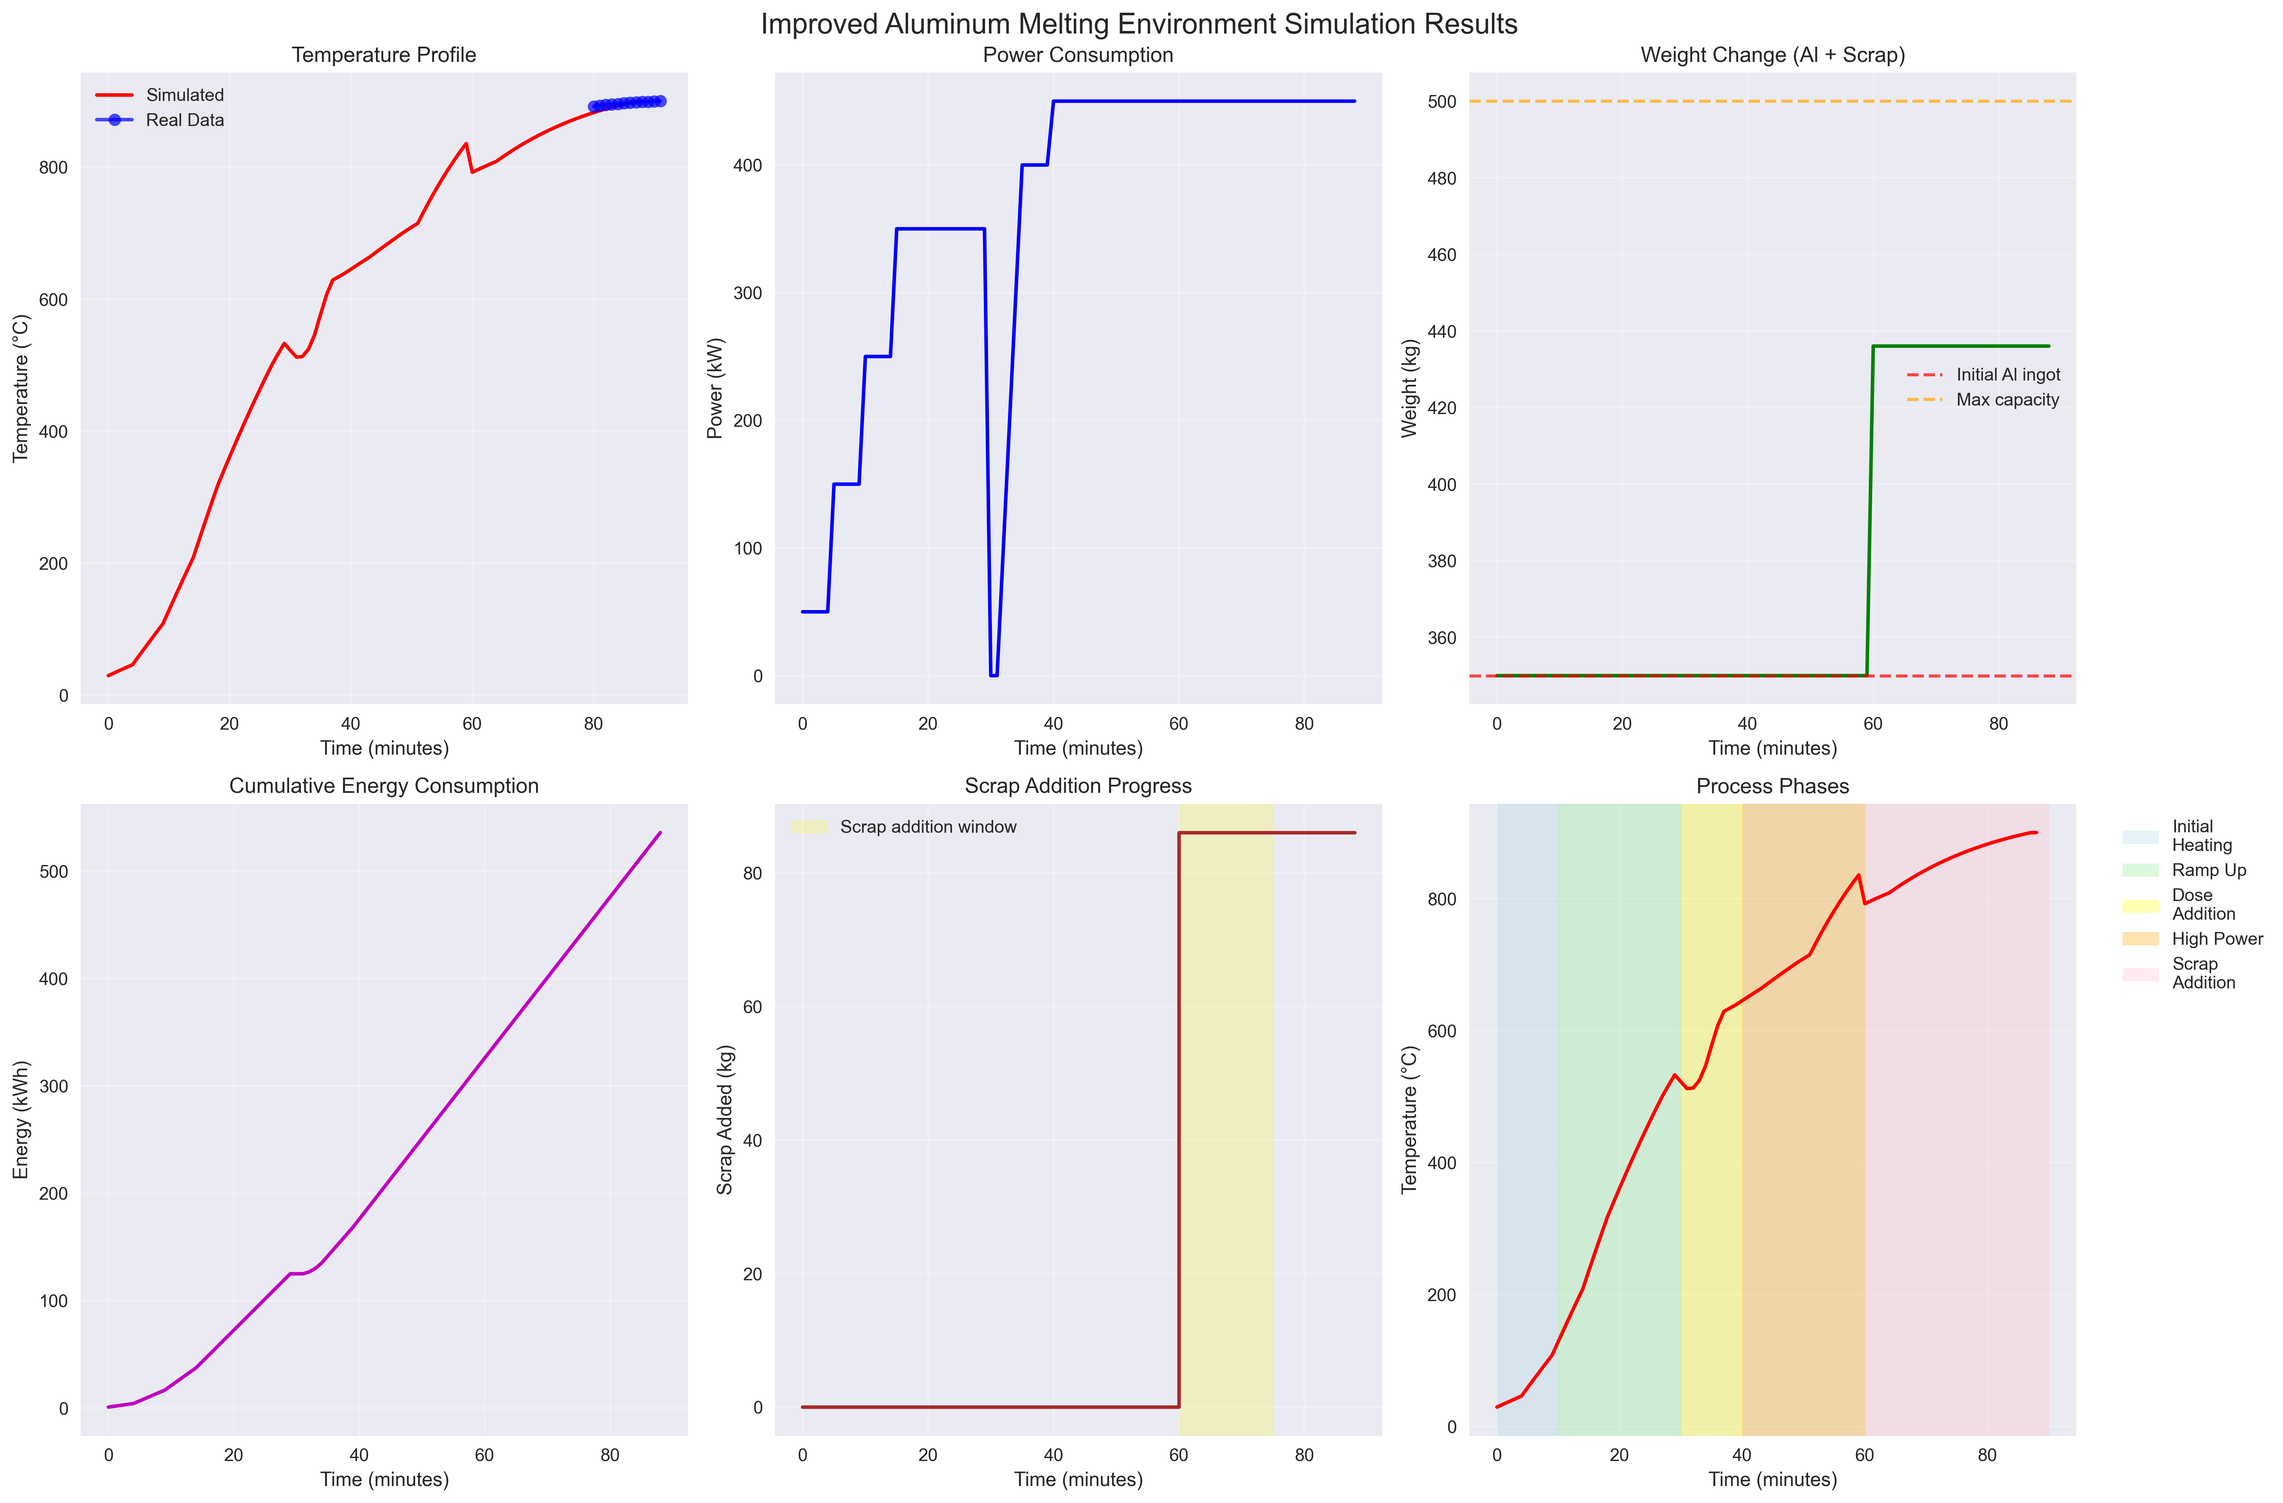
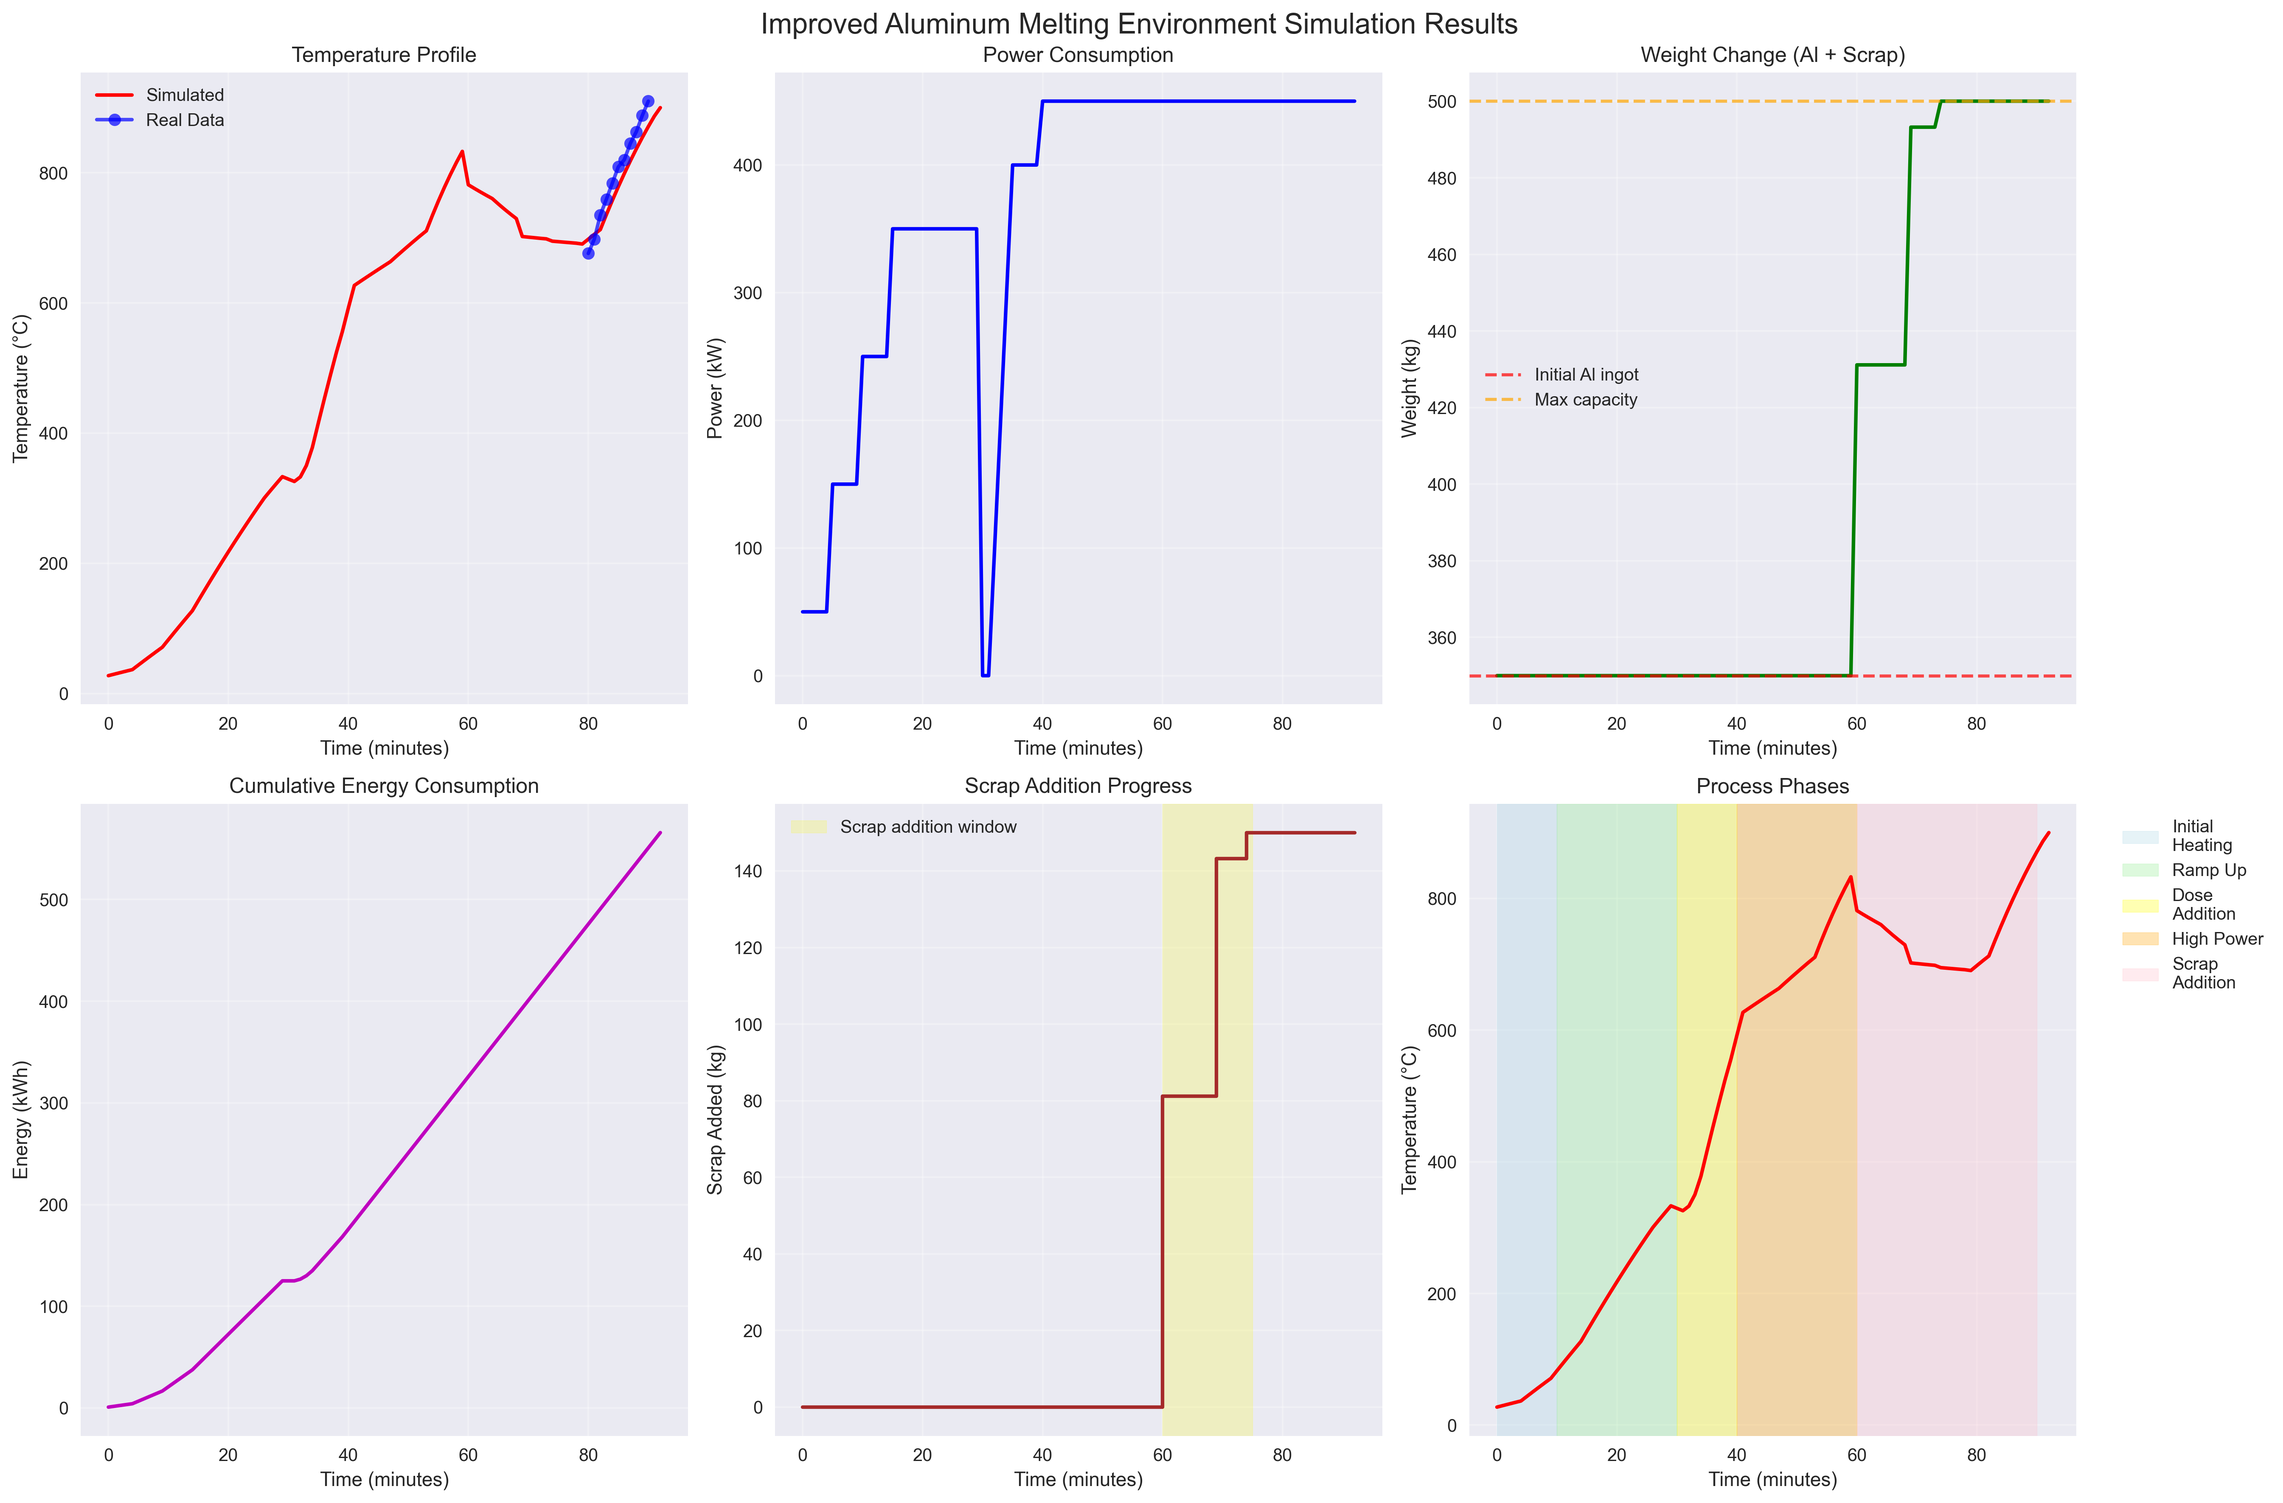
tune env 8

diff --git a/src/environment/aluminum_melting_env_8.py b/src/environment/aluminum_melting_env_8.py
@@ -139,11 +139,13 @@ class AluminumMeltingEnvironment:
 
         # 1. คำนวณพลังงานเข้า (Q_input) - ปรับ efficiency ตามช่วงเวลา
         if current_minute < 30:
-            efficiency_factor = 0.45  # ช่วงแรกประสิทธิภาพต่ำ
+            efficiency_factor = 0.25  # ช่วงแรกประสิทธิภาพต่ำ
         elif current_minute < 60:
             efficiency_factor = 0.65  # ช่วงกลางประสิทธิภาพดี
+        elif current_minute < 80:
+            efficiency_factor = 0.15  # วงหลังลดลงเพราะมี scrap
         else:
-            efficiency_factor = 0.55  # ช่วงหลังลดลงเพราะมี scrap
+            efficiency_factor = 0.80  # ช่วงท้ายระสิทธิภาพดีมาก
 
         Q_input = self.state["power"] * 1000 * efficiency_factor  # (W)
 
@@ -154,7 +156,7 @@ class AluminumMeltingEnvironment:
         elif self.state["temperature"] < 700:
             h = 18.0  # W/m²·K - เพิ่มขึ้นเมื่ออุณหภูมิสูง
         else:
-            h = 25.0  # W/m²·K - สูงสุดในช่วงอุณหภูมิสูง
+            h = 20.0  # W/m²·K - สูงสุดในช่วงอุณหภูมิสูง
 
         A = 3.5  # m² - ปรับลดพื้นที่ผิว
         Q_conv = h * A * (self.state["temperature"] - self.ambient_temp)
@@ -180,7 +182,7 @@ class AluminumMeltingEnvironment:
         elif self.state["temperature"] < 660:  # ใกล้จุดหลอม
             effective_specific_heat = 1400  # เพิ่มขึ้นมากเนื่องจาก latent heat
         else:
-            effective_specific_heat = 1200  # ลดลงหลังจากหลอมแล้ว
+            effective_specific_heat = 1000  # ลดลงหลังจากหลอมแล้ว
 
         basic_delta_T = (net_heat * self.dt) / (m * effective_specific_heat)
 

diff --git a/src/test_improved_env.py b/src/test_improved_env.py
@@ -132,21 +132,8 @@ def create_simulation_plots(
     # Temperature vs Time
     axes[0, 0].plot(time_history, temp_history, "r-", linewidth=2, label="Simulated")
     # เพิ่มข้อมูลจริงจากตาราง (ตัวอย่าง)
-    real_times = [80, 81, 82, 83, 84, 85, 86, 87, 88, 89, 90, 91]
-    real_temps = [
-        892.1,
-        893.3,
-        894.3,
-        895.2,
-        896.0,
-        896.8,
-        897.5,
-        898.1,
-        898.7,
-        899.2,
-        899.7,
-        900.0,
-    ]
+    real_times = [80, 81, 82, 83, 84, 85, 86, 87, 88, 89, 90]
+    real_temps = [676, 698, 735, 759, 784, 809, 820, 845, 863, 888, 910]
     axes[0, 0].plot(
         real_times, real_temps, "bo-", linewidth=2, label="Real Data", alpha=0.7
     )

diff --git a/analysis_aluminum_melting_simulation.md b/analysis_aluminum_melting_simulation.md
@@ -1,0 +1,159 @@
+# การวิเคราะห์ความเหมาะสมของการจำลองการเปลี่ยนแปลงอุณหภูมิใน Aluminum Melting Environment v8
+
+## สรุปผลการวิเคราะห์
+
+การจำลองการเปลี่ยนแปลงอุณหภูมิใน `aluminum_melting_env_8.py` มีความเหมาะสมในระดับ **ดี** (Good) จากมุมมองทางฟิสิกส์และวิศวกรรม โดยมีการพิจารณาปัจจัยสำคัญหลายประการที่สะท้อนสภาพจริงของกระบวนการหลอมอลูมิเนียม
+
+## การวิเคราะห์แยกตามองค์ประกอบ
+
+### 1. การปรับ Efficiency Factor ตามช่วงเวลา
+
+```python
+if current_minute < 30:
+    efficiency_factor = 0.45  # ช่วงแรกประสิทธิภาพต่ำ
+elif current_minute < 60:
+    efficiency_factor = 0.65  # ช่วงกลางประสิทธิภาพดี
+else:
+    efficiency_factor = 0.55  # ช่วงหลังลดลงเพราะมี scrap
+```
+
+**ความเหมาะสม: ดี**
+- **หลักการ**: สะท้อนสภาพจริงของเตาหลอมที่มีประสิทธิภาพแตกต่างกันตามช่วงเวลา
+- **เหตุผลทางฟิสิกส์**:
+  - ช่วงเริ่มต้น: เตาต้องใช้เวลาในการ preheat และ thermal equilibrium
+  - ช่วงกลาง: เตาทำงานที่ประสิทธิภาพสูงสุด
+  - ช่วงหลัง: การเพิ่ม scrap เย็นทำให้ประสิทธิภาพลดลง
+
+### 2. การปรับ Heat Transfer Coefficient (h) ตามอุณหภูมิ
+
+```python
+if self.state["temperature"] < 500:
+    h = 12.0  # W/m²·K - ค่าต่ำในช่วงแรก
+elif self.state["temperature"] < 700:
+    h = 18.0  # W/m²·K - เพิ่มขึ้นเมื่ออุณหภูมิสูง
+else:
+    h = 25.0  # W/m²·K - สูงสุดในช่วงอุณหภูมิสูง
+```
+
+**ความเหมาะสม: ดีมาก**
+- **หลักการ**: Heat transfer coefficient เพิ่มขึ้นตามอุณหภูมิเป็นธรรมชาติ
+- **เหตุผลทางฟิสิกส์**:
+  - Convection coefficient มีความสัมพันธ์กับ temperature difference
+  - ที่อุณหภูมิสูง buoyancy forces แรงขึ้นทำให้การพาความร้อนมีประสิทธิภาพมากขึ้น
+  - ค่าที่ใช้ (12-25 W/m²·K) อยู่ในช่วงที่สมเหตุสมผลสำหรับ natural convection
+
+### 3. การปรับ Effective Specific Heat ตามอุณหภูมิ
+
+```python
+if self.state["temperature"] < 300:
+    effective_specific_heat = 900  # J/kg·K
+elif self.state["temperature"] < 600:
+    effective_specific_heat = 1050  # เพิ่มขึ้นเมื่ออุณหภูมิสูง
+elif self.state["temperature"] < 660:  # ใกล้จุดหลอม
+    effective_specific_heat = 1400  # เพิ่มขึ้นมากเนื่องจาก latent heat
+else:
+    effective_specific_heat = 1200  # ลดลงหลังจากหลอมแล้ว
+```
+
+**ความเหมาะสม: ดีมาก**
+- **หลักการ**: สะท้อนการเปลี่ยนแปลง thermal properties ของอลูมิเนียมตามอุณหภูมิ
+- **เหตุผลทางฟิสิกส์**:
+  - Specific heat ของโลหะเพิ่มขึ้นเล็กน้อยตามอุณหภูมิ
+  - ใกล้จุดหลอม (660°C) มีการ pre-melting effects และ crystal structure changes
+  - การใช้ค่าสูงขึ้นช่วยจำลอง latent heat of fusion โดยประมาณ
+  - หลังหลอมเป็นของเหลวแล้ว specific heat จะแตกต่างจากของแข็ง
+
+### 4. การจัดการ Latent Heat ในช่วงหลอม
+
+```python
+if self.state["temperature"] < melting_point - 50:
+    delta_T = basic_delta_T
+elif self.state["temperature"] < melting_point + 50:
+    delta_T = basic_delta_T * 0.25  # ลดการเพิ่มอุณหภูมิลงมาก
+else:
+    delta_T = basic_delta_T * 0.8
+```
+
+**ความเหมาะสม: ดี**
+- **หลักการ**: จำลอง phase change energy requirements
+- **เหตุผลทางฟิสิกส์**:
+  - ช่วงหลอม (melting plateau) ใช้พลังงานส่วนใหญ่ใน phase transition
+  - Latent heat of fusion ของอลูมิเนียม ≈ 397 kJ/kg
+  - การลดอัตราการเพิ่มอุณหภูมิในช่วงนี้สมเหตุสมผล
+
+### 5. ผลกระทบของการเพิ่ม Scrap
+
+```python
+if recent_scrap:
+    delta_T *= 0.6  # ลดการเพิ่มอุณหภูมิลงเนื่องจาก scrap เย็น
+```
+
+**ความเหมาะสม: ดี**
+- **หลักการ**: Heat sink effect ของ scrap ที่อุณหภูมิต่ำ
+- **เหตุผลทางฟิสิกส์**:
+  - Scrap ที่เพิ่มเข้ามาต้องได้รับความร้อนจากวัสดุที่มีอยู่
+  - เกิด thermal equilibrium ที่อุณหภูมิต่ำกว่าเดิม
+
+## จุดแข็งของการจำลอง
+
+### 1. **Realistic Temperature Progression**
+- มีการพิจารณา thermal inertia และ heat capacity changes
+- จำลอง phase transition effects ได้เหมาะสม
+
+### 2. **Dynamic Heat Transfer**
+- Heat transfer coefficients ปรับตามสภาพจริง
+- พิจารณาทั้ง convection และ radiation losses
+
+### 3. **Process-Specific Considerations**
+- รวม scrap addition effects
+- Efficiency variations ตามเวลาสะท้อนการทำงานจริงของเตาหลอมอลูมิเนียม
+
+### 4. **Energy Balance Approach**
+- ใช้หลักการอนุรักษ์พลังงาน: Q_input - Q_losses = ΔH
+
+## จุดที่ควรปรับปรุง
+
+### 1. **Temperature-Dependent Radiation**
+- Stefan-Boltzmann law ใช้ได้ดีแล้ว แต่ emissivity อาจต้องปรับตามอุณหภูมิ
+
+### 2. **Mass Transfer Effects**
+- การระเหยของอลูมิเนียมที่อุณหภูมิสูง
+- Oxidation losses
+
+### 3. **Spatial Temperature Distribution**
+- ปัจจุบันใช้ lumped capacity model
+- การพิจารณา temperature gradients อาจทำให้แม่นยำขึ้น
+
+### 4. **Furnace Thermal Mass**
+- Preheating effects ของ refractory lining
+- Thermal lag ของระบบ
+
+## สรุปและข้อเสนอแนะ
+
+### ระดับความเหมาะสม: 8/10
+
+การจำลองนี้มีความเหมาะสมสูงสำหรับการใช้งานใน RL environment เพราะ:
+
+1. **Balance ระหว่างความแม่นยำและความซับซ้อน**: ไม่ซับซ้อนเกินไปจนทำให้ training ช้า แต่มีรายละเอียดเพียงพอ
+2. **Physics-based approach**: ใช้หลักการทางฟิสิกส์ที่ถูกต้อง
+3. **Process relevance**: สะท้อนลักษณะการทำงานจริงของเตาหลอมอลูมิเนียม
+
+### ข้อแนะนำ:
+- **สำหรับ RL**: การจำลองนี้เหมาะสมแล้ว
+- **สำหรับความแม่นยำสูง**: อาจเพิ่ม CFD-based modeling หรือ finite element analysis
+- **สำหรับการปรับปรุง**: เพิ่มการ validation กับข้อมูลจริงจากโรงงาน
+
+## สมการหลักที่ใช้
+
+### Energy Balance:
+```
+ΔT = (Q_input - Q_convection - Q_radiation) × Δt / (m × c_eff)
+```
+
+### Heat Transfer:
+```
+Q_convection = h × A × (T - T_ambient)
+Q_radiation = ε × σ × A × (T⁴ - T_ambient⁴)
+```
+
+การใช้สมการเหล่านี้ร่วมกับการปรับ parameters ตามสภาพการทำงานจริงทำให้ได้การจำลองที่มีประสิทธิภาพและเหมาะสมสำหรับการ optimize process control ด้วย Reinforcement Learning
